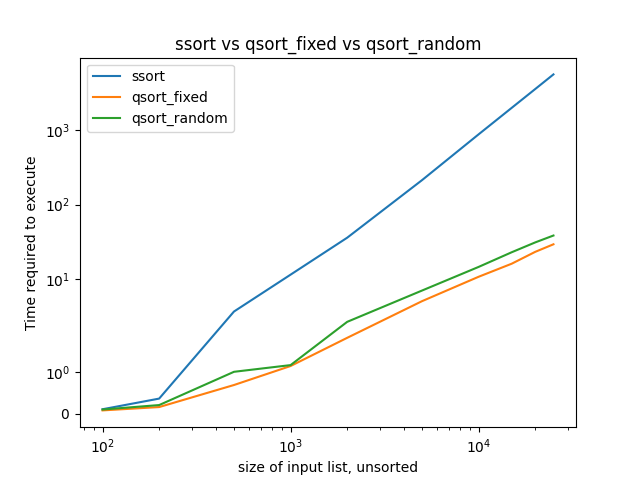
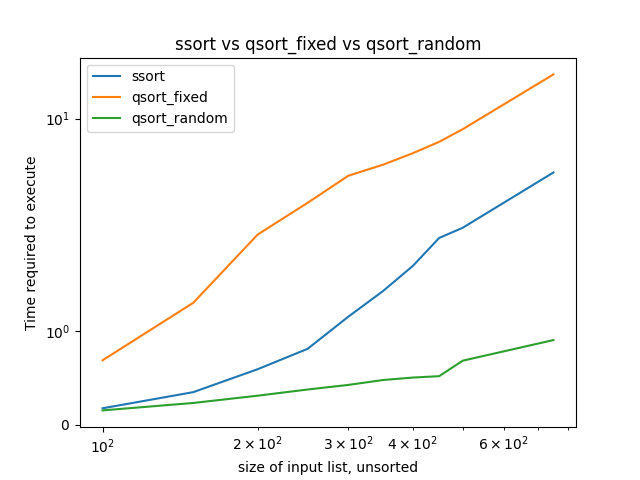
final

diff --git a/main.py b/main.py
@@ -53,7 +53,7 @@ def time_search(sort_fn, mylist):
     return (time.time() - start) * 1000
     ###
 
-def compare_sort(sizes=[100, 200, 500, 1000, 2000, 5000, 10000, 15000, 20000, 25000]):
+def compare_sort(sizes=[100, 150, 200, 250, 300, 350, 400, 450, 500, 750]):
     """
     Compare the running time of different sorting algorithms.
 
@@ -65,7 +65,7 @@ def compare_sort(sizes=[100, 200, 500, 1000, 2000, 5000, 10000, 15000, 20000, 25
     """
     ### TODO - sorting algorithms for comparison
     def qsort_fixed_pivot(a):
-        return qsort(a, lambda x: x[len(x)//2])
+        return qsort(a, lambda x: x[0])
     def qsort_random_pivot(a):
         return qsort(a, random.choice)
     tim_sort = sorted
@@ -74,14 +74,14 @@ def compare_sort(sizes=[100, 200, 500, 1000, 2000, 5000, 10000, 15000, 20000, 25
         # create list in ascending order
         mylist = list(range(size))
         # shuffles list if needed
-        # random.shuffle(mylist)
+        random.shuffle(mylist)
         # print(mylist)
         # print(mylist)
         result.append([
             len(mylist),
             time_search(tim_sort, mylist),
             time_search(qsort_fixed_pivot, mylist),
-            # time_search(qsort_random_pivot, mylist),
+            time_search(qsort_random_pivot, mylist),
         ])
     return result
     ###
@@ -155,16 +155,16 @@ def graph():
     sizes = [x[0] for x in results]
     ssort = [x[1] for x in results]
     qsort_fixed = [x[2] for x in results]
-    # qsort_random = [x[3] for x in results]
+    qsort_random = [x[3] for x in results]
     # print(l)
     # print(n)
     # print(t)
     plt.plot(sizes,ssort, label = 'timsort')
-    plt.plot(sizes,qsort_fixed, label = 'qsort_fixed')
-    # plt.plot(sizes,qsort_random, label = 'qsort_random')
+    # plt.plot(sizes,qsort_fixed, label = 'qsort_fixed')
+    plt.plot(sizes,qsort_random, label = 'qsort_random')
     plt.legend()
-    plt.title('timsort vs qsort_fixed')
-    plt.xlabel('size of input list, presorted')
+    plt.title('timsort vs qsort_random')
+    plt.xlabel('size of input list, shuffled')
     plt.ylabel('Time required to execute')
     plt.yscale('symlog')
     plt.xscale('log')

diff --git a/answers.md b/answers.md
@@ -20,16 +20,18 @@ I utilized the non-recursive version of `ssort` for this comparison. For my fixe
 Random Permutations:
 |     n (shuffled) |     ssort |   qsort-fixed-pivot |   qsort-random-pivot |
 |-------|-----------|---------------------|----------------------|
-|   100 |    0.105 |               0.075 |                0.090 |
-|   200 |    0.367 |               0.149 |                0.190 |
-|   500 |    2.118 |               0.366 |                0.541 |
-|  1000 |    8.196 |               0.800 |                1.162 |
-|  2000 |   32.604 |               1.722 |                2.535 |
-|  5000 |  218.558 |               5.168 |                7.078 |
-| 10000 |  887.802 |              10.826 |               14.042 |
-| 15000 | 2016.582 |              15.913 |               22.872 |
-| 20000 | 3600.353 |              22.465 |               31.529 |
-| 25000 | 5713.169 |              29.254 |               39.632 |
+| 100 |   0.104 |               0.437 |                0.094 |
+| 150 |   0.219 |               1.063 |                0.139 |
+| 200 |   0.361 |               1.868 |                0.192 |
+| 250 |   0.557 |               2.908 |                0.249 |
+| 300 |   0.774 |               3.991 |                0.331 |
+| 350 |   1.056 |               5.253 |                0.358 |
+| 400 |   1.382 |               6.696 |                0.428 |
+| 450 |   1.718 |               8.250 |                0.470 |
+| 500 |   2.117 |              10.042 |                0.563 |
+| 750 |   4.665 |              20.966 |                0.853 |
+
+
 
 
 ![image](Figure_1.png "Fig 1")
@@ -37,16 +39,17 @@ Random Permutations:
 Unshuffled Permutations:
 |     n (presorted) |    ssort |   qsort-fixed-pivot |   qsort-random-pivot |
 |-------|----------|---------------------|----------------------|
-|   100 |    0.088 |               0.074 |                0.094 |
-|   200 |    0.303 |               0.149 |                0.199 |
-|   500 |    1.758 |               0.367 |                0.546 |
-|  1000 |    6.831 |               0.793 |                1.194 |
-|  2000 |   26.956 |               1.706 |                2.606 |
-|  5000 |  176.217 |               5.008 |                7.346 |
-| 10000 |  724.513 |              10.697 |               15.510 |
-| 15000 | 1641.346 |              16.011 |               23.143 |
-| 20000 | 2900.501 |              23.355 |               31.752 |
-| 25000 | 4465.927 |              29.481 |               39.743 |
+| 100 |   0.086 |               0.444 |                0.088 |
+| 150 |   0.176 |               1.053 |                0.143 |
+| 200 |   0.299 |               1.845 |                0.207 |
+| 250 |   0.458 |               2.864 |                0.254 |
+| 300 |   0.653 |               3.988 |                0.304 |
+| 350 |   0.876 |               5.217 |                0.363 |
+| 400 |   1.130 |               6.634 |                0.408 |
+| 450 |   1.423 |               8.195 |                0.477 |
+| 500 |   1.749 |               9.987 |                0.606 |
+| 750 |   3.861 |              20.797 |                0.832 |
+
 
 ![image](Figure_2.png "Fig 2")
 
@@ -58,41 +61,48 @@ The asymptotic bounds of these sorting methods are as follows:
 
 `qsort-random-pivot`: $\text{Average case time} = O(n \log n)$ $\text{Worst case time} = O(n^2)$
 
-The running times line up with the asymptotic bounds. On average, both qsort algorithms solve faster than the ssort algorithm. Both of the qsort algorithms peform approximately the same on presorted and sorted lists, but ssort performs drastically better on presorted lists. 
+The running times roughly line up with the asymptotic upper bounds. The `qsort` with random pivot is much closer to `qsort`'s $\text{Average case time} : O(n \log n)$. Meanwhile, the qsort with fixed pivot of `n[0]` is much closer to the $\text{Worst case time} : O(n^2)$. In all trials, `qsort-fixed` was the slowest of all the algorithms. In the presorted lists, chosing `n[0]` is the worst possible pivot choice, leading it to perform in its $\text{Worst case time} : O(n^2)$. ssort performed surprisingly well. Its time complexity increased exponentially in the shuffled trials and slightly slower than exponentially in the presorted trials. 
+
+Neither of the `qsort` implimentations were significantly faster on the shuffled vs presorted input lists. This can be explained by noting that `qsort` performs essentially the same amount of work whether the list is sorted or unsorted, as long as the pivot selection strategy remains the same. `ssort` performed much better on the presorted input lists than the shuffled input lists. This is due to the fact that although the same amount of comparisons were made, there were much more swaps on the shuffled list, which can become costly in high numbers. 
+
+
+
 
 
  **1c.**
   -
 
 Shuffled:
-|     n (shuffled)  |   timsort |   qsort-fixed-pivot |
+|     n (shuffled)  |   timsort |   qsort-random-pivot |
 |-------|-----------|---------------------|
-|   100 |     0.005 |               0.089 |
-|   200 |     0.010 |               0.177 |
-|   500 |     0.028 |               0.501 |
-|  1000 |     0.061 |               1.120 |
-|  2000 |     0.131 |               2.485 |
-|  5000 |     0.380 |               7.315 |
-| 10000 |     0.807 |              14.126 |
-| 15000 |     1.295 |              22.328 |
-| 20000 |     1.761 |              32.190 |
-| 25000 |     2.288 |              39.289 |
+| 100 |     0.005 |               0.134 |
+| 150 |     0.009 |               0.205 |
+| 200 |     0.013 |               0.305 |
+| 250 |     0.016 |               0.355 |
+| 300 |     0.020 |               0.467 |
+| 350 |     0.024 |               0.501 |
+| 400 |     0.028 |               0.555 |
+| 450 |     0.032 |               0.695 |
+| 500 |     0.036 |               0.728 |
+| 750 |     0.053 |               1.133 |
+
 
 ![image](Figure_3.png "Fig 3")
 
 Unshuffled:
-|     n (presorted) |   timsort |   qsort-fixed-pivot |
+|     n (presorted) |   timsort |   qsort-random-pivot |
 |-------|-----------|---------------------|
-|   100 |     0.001 |               0.075 |
-|   200 |     0.001 |               0.148 |
-|   500 |     0.002 |               0.398 |
-|  1000 |     0.004 |               0.850 |
-|  2000 |     0.008 |               1.929 |
-|  5000 |     0.022 |               4.977 |
-| 10000 |     0.041 |              10.578 |
-| 15000 |     0.057 |              15.906 |
-| 20000 |     0.100 |              22.514 |
-| 25000 |     0.109 |              29.274 |
+| 100 | 0.002 |0.087 |
+| 150 | 0.001 |0.140 |
+| 200 | 0.001 |0.192 |
+| 250 | 0.001 |0.261 |
+| 300 | 0.002 |0.328 |
+| 350 | 0.001 |0.399 |
+| 400 | 0.002 |0.420 |
+| 450 | 0.002 |0.488 |
+| 500 | 0.002 |0.583 |
+| 750 | 0.003 |0.846 |
+
 
 ![image](Figure_4.png "Fig 4")
 
